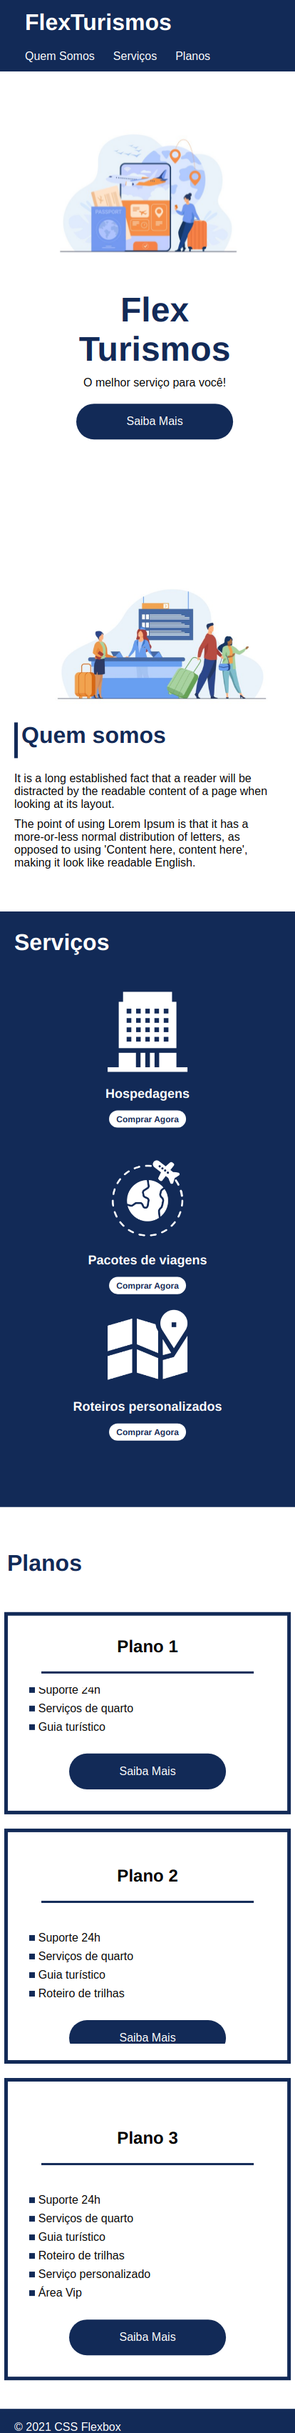
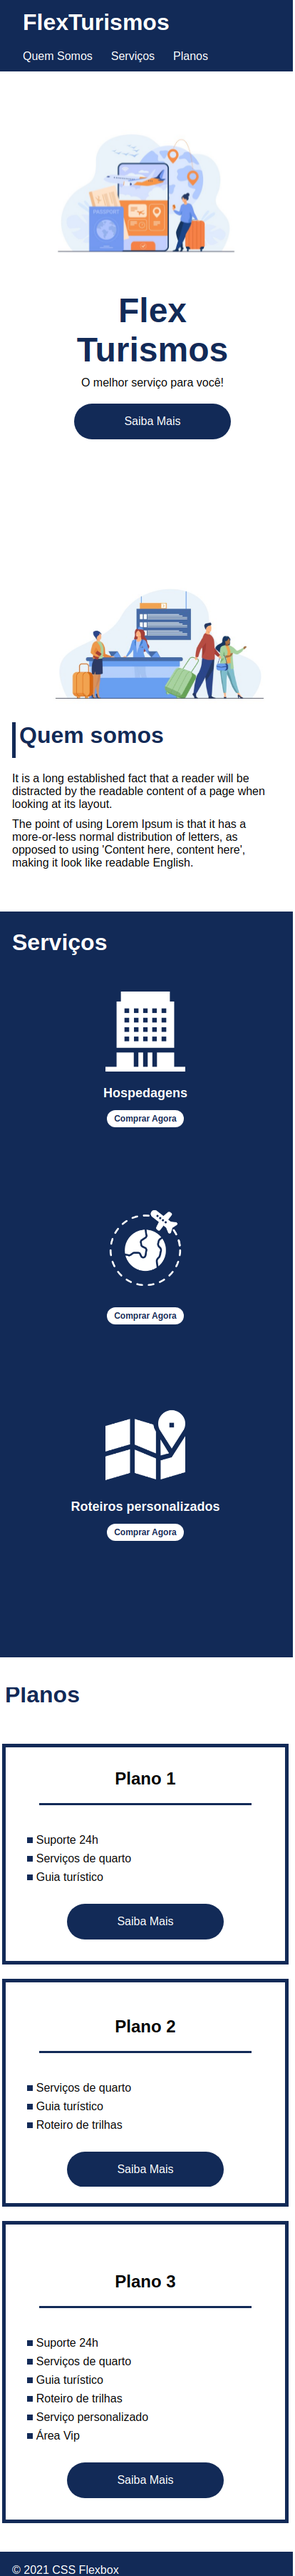
ajustes finais no readme

Changed region(s): [[0.0, 0.2179, 1.0, 1.0], [0.058, 0.0, 0.7826, 0.1867], [0.9855, 0.0, 1.0, 0.0311]]

diff --git a/Flexbox-CSS/ProjetoFInal-LandingPage/style.css b/Flexbox-CSS/ProjetoFInal-LandingPage/style.css
@@ -382,7 +382,7 @@ footer .footer{
     }
 
     .list-servicos .item-servico{
-        margin-bottom: 30px;
+        margin-bottom: 100px;
     }
 
     .item-servico img{

diff --git a/Flexbox-CSS/ProjetoFInal-LandingPage/README.md b/Flexbox-CSS/ProjetoFInal-LandingPage/README.md
@@ -22,5 +22,5 @@ Projeto final da sessão do curso de CSS-Flexbox.
 ## 📳 preview final do projeto mobile
 
 <p align="center">
-  <img src="images/mobile.png" width="400" height="600"/>
+  <img src="images/mobile.png" width="100" height="600"/>
 </p>
